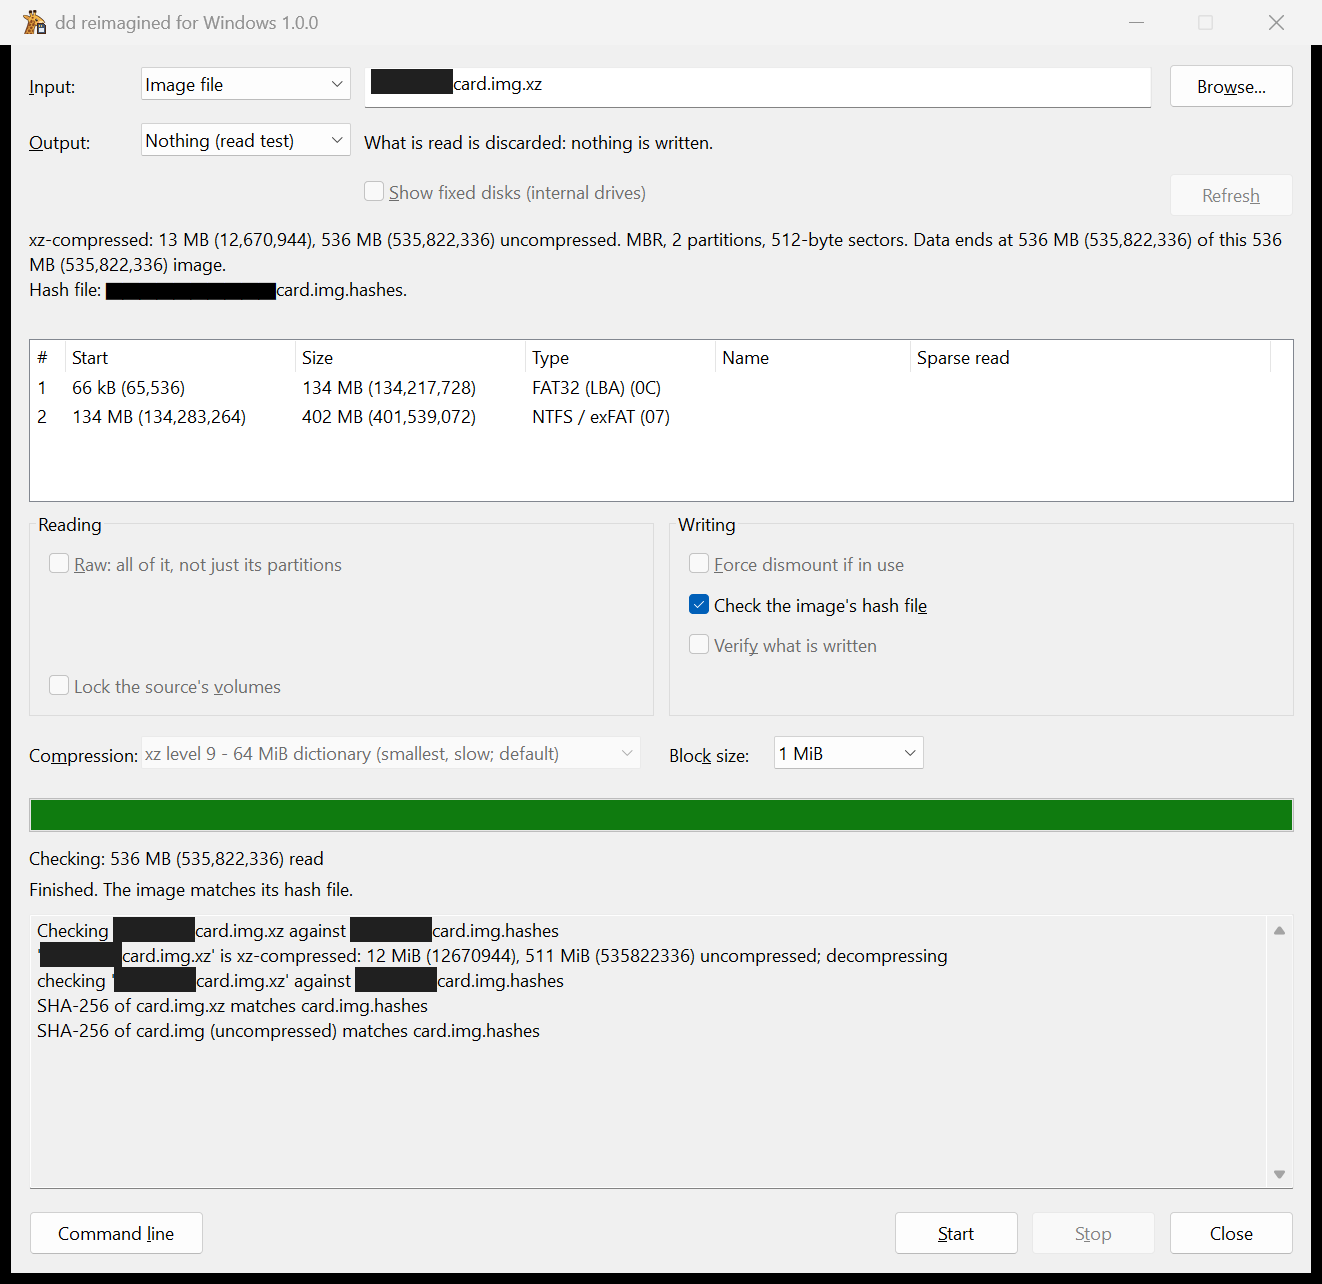
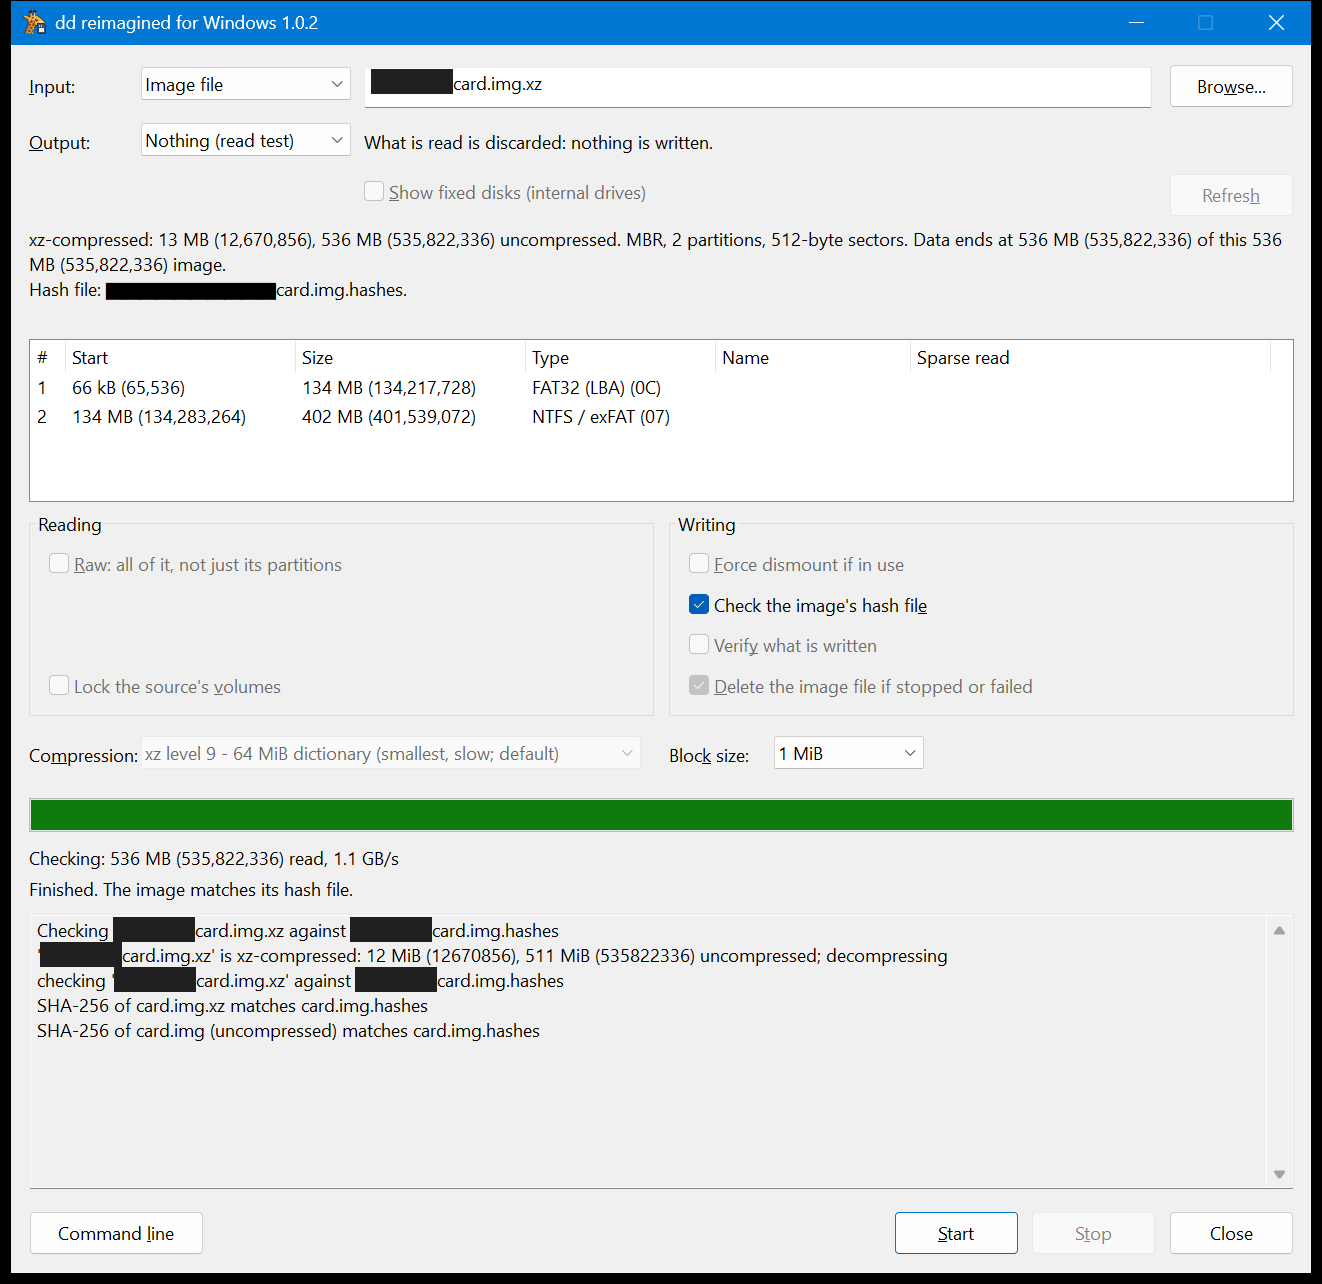
Updates from 1.0.2 release testing

Changed region(s): [[0.0, 0.0, 1.0, 0.0623], [0.5272, 0.5296, 0.7753, 0.5607], [0.2791, 0.6542, 0.3101, 0.6854]]

diff --git a/lib/copy.c b/lib/copy.c
@@ -816,6 +816,8 @@ static dd_result copy_loop(job *j)
     dd_result res = DD_OK;
     int64_t max_records = -1, max_bytes = 0;
     bool write_stopped = false;
+    bool read_stopped = false;  /* a read error ended it; one conv=noerror skips does not */
+    bool tail_failed = false;   /* what follows the data (sparse end, GPT) failed */
     wchar_t m[256];
     DWORD e;
 
@@ -857,6 +859,7 @@ static dd_result copy_loop(job *j)
             /* nothing after an error in a compressed stream can be found */
             if (!(opt->conv & DD_CONV_NOERROR) || j->in.xz) {
                 res = DD_FAILED;
+                read_stopped = true;
                 break;      /* still write what is already gathered */
             }
             res = DD_FAILED;
@@ -944,13 +947,17 @@ static dd_result copy_loop(job *j)
             dd__msg(j->cb, DD_MSG_ERROR, L"failed to truncate to %lld bytes in output file '%ls': %ls",
                     (long long)j->out.pos, j->out.name, m);
             res = DD_FAILED;
+            tail_failed = true;
         }
     }
 
-    if (res == DD_OK && j->have_gpt)
-        res = write_gpt(j);
-    if (res == DD_OK && j->clear_len)
-        res = clear_end(j);
+    if (res == DD_OK && j->have_gpt && (res = write_gpt(j)) != DD_OK)
+        tail_failed = true;
+    if (res == DD_OK && j->clear_len && (res = clear_end(j)) != DD_OK)
+        tail_failed = true;
+    /* all of the input was copied, even if conv=noerror skipped some of it
+       (and so the result is a failure): the output is as whole as it gets */
+    j->out_complete = !write_stopped && !read_stopped && !tail_failed;
 
     /* Raw devices are always flushed: Windows has no sync command and
        the device may be unplugged as soon as dd exits. */
@@ -1780,7 +1787,6 @@ static dd_result run_job(job *j)
 
     j->st->bytes_total = expected_total(j);
     res = copy_loop(j);
-    j->out_complete = res == DD_OK;
     if (j->fsmap && opt->status != DD_STATUS_NONE) {
         wchar_t a[DD_SIZE_EXACT_CHARS];
         dd_format_size_exact(j->st->bytes_unused, false, false, a, DD_SIZE_EXACT_CHARS);

diff --git a/include/dd.h b/include/dd.h
@@ -133,7 +133,8 @@ typedef struct dd_options {
                                 failed in.  By default it is deleted, when
                                 all of it is this run's: a file dd opened,
                                 with no seek, conv=notrunc or oflag=append.
-                                A file whose copy finished (verify failing,
+                                A file whose copy reached the end (read errors
+                                skipped by conv=noerror, verify failing,
                                 say) is kept. */
     bool check_hashes;       /* only read if= (an image file) and check it
                                 against its .hashes file; no output */

diff --git a/include/dd_version.h b/include/dd_version.h
@@ -11,8 +11,8 @@
 
 #define DD_VERSION_MAJOR 1
 #define DD_VERSION_MINOR 0
-#define DD_VERSION_PATCH 1
-#define DD_VERSION_STR   "1.0.1"
+#define DD_VERSION_PATCH 2
+#define DD_VERSION_STR   "1.0.2"
 
 #define DD_PRODUCT_NAME  "dd reimagined for Windows"
 #define DD_COPYRIGHT     "dd reimagined for Windows Copyright (C) 2026 Mark Smith; dd Copyright (C) 2003 John Newbigin; GPL version 2 or later"

diff --git a/DEVELOPMENT.md b/DEVELOPMENT.md
@@ -92,10 +92,10 @@ compiled from `third_party/xz`.
 | hash-tests | 41 | — | .hashes files, --verify on files, --verify-hashes |
 | device-tests | 51 | admin | 64 MB VHDX: locking, force-dismount, --lock-input, drive letters, --keep-letters, system-disk refusal, read-modify-write, interface paths, verify |
 | ctrlc-test | 8 | admin | real Ctrl+C: stats, exit 130, blocked pipe read released, compression stopped at once |
-| gui-race-test | 6 | admin | disks swapped or added while the GUI's confirmation is open |
+| gui-race-test | 9 | admin | disks swapped or added while the GUI's confirmation is open |
 | fit-tests | 50 | admin | --fit for MBR and GPT, both directions, through .xz and hashes; clearing an old backup GPT |
 | gui-fit-test | 70 | admin | the GUI end to end: lists, read, write, check, Command line, lock, Sparse read, image to image (.xz, sparse, mapping in the background), disk to disk, read tests, wipes |
-| sparse-tests | 86 | fixtures | ext2/3/4 against dumpe2fs's free list, journal recovery, damage, MBR, overlap, options; .xz mapped in memory and streamed, hash files; NTFS against Windows' bitmap; swap |
+| sparse-tests | 82 | fixtures | ext2/3/4 against dumpe2fs's free list, journal recovery, damage, MBR, overlap, options; .xz mapped in memory and streamed, hash files; NTFS against Windows' bitmap; swap |
 | sparse-device-tests | 43 | admin, fixtures | Windows-formatted FAT12/16/32, exFAT, NTFS plus ext4 on one VHDX: read, written back, chkdsk, file hashes; dirty bits; mounted volumes |
 
 `tests\run-all.ps1` runs all ten suites, one line each. For 1.0.0 it

diff --git a/CHANGES.md b/CHANGES.md
@@ -1,6 +1,6 @@
 # Changes
 
-## Unreleased
+## 1.0.2 (2026-11-14)
 
 - **Compressed images are mapped for each run; the sparse map file is
   gone.** `--sparse-read` on an `.xz` image now maps its file systems at
@@ -15,15 +15,17 @@
     window stays usable, and Start stops it.
 - **Stopping a compression is immediate.** Stop or Ctrl+C no longer waits
   for the encoder threads to finish the blocks they hold, which at level 9
-  could take minutes. The .xz file is left without its end, so it will not
-  decompress fully, and dd warns that it is incomplete. A copy that fails
-  for any other reason still ends the stream.
+  could take minutes. The .xz file is left without its end, so it is
+  deleted (see below); with `--keep-incomplete` it is kept, and dd warns
+  that it will not decompress fully. A copy that fails for any other
+  reason still ends the stream.
 - **An output file left incomplete is deleted.** When a copy fails or is
   stopped while writing a file that is all its own (no `seek=`,
   `conv=notrunc` or `oflag=append`), the partial file is deleted and dd
   says so. `--keep-incomplete` keeps it; dd-gui.exe's *Delete the image
   file if stopped or failed*, ticked by default, is the same switch. A
-  file whose copy finished is kept, even if verifying it fails.
+  file whose copy reached the end is kept: one with read errors skipped by
+  `conv=noerror`, or one that fails verifying.
 - dd-gui.exe shows the read rate while verifying, checking hashes or
   mapping a compressed image, as dd.exe already did.
 

diff --git a/docs/gui.md b/docs/gui.md
@@ -82,7 +82,8 @@ Writing:
   deleted (a stopped compression would leave an .xz file with no end,
   which will not decompress fully). The file is kept if the copy never
   started, so a file that was about to be replaced is still whole, and it
-  is kept if the copy finished and only verifying stopped or failed.
+  is kept if the copy reached the end: with read errors skipped, or only
+  verifying stopped or failed.
 
 Both:
 
@@ -136,7 +137,7 @@ The image gets a hash file beside it (`card.img.hashes` for
    verify) is done; if the image replaced them, Windows mounts the new
    ones.
 
-![The finished write: hashes checked, disk verified, letter given to the new volume](images/gui-write-done.png)
+![The finished write: hashes checked, disk verified, the old drive letter kept for its volume](images/gui-write-done.png)
 
 If a disk is plugged in, removed or swapped while the confirmation is
 open, the write is not started; check the disks and press *Start* again.

diff --git a/README.md b/README.md
@@ -14,7 +14,7 @@ If you cannot agree with the above, do not use it.
 
 ## About
 
-Version 1.0.1. A C rewrite of John Newbigin's dd for Windows 0.6beta3. It
+Version 1.0.2. A C rewrite of John Newbigin's dd for Windows 0.6beta3. It
 behaves like GNU dd, keeps 0.6's Windows extras (`--list`, `id=`/`od=`,
 `--filter`, `dd-<filter>.exe` naming) and adds a graphical front end and
 the features below.
